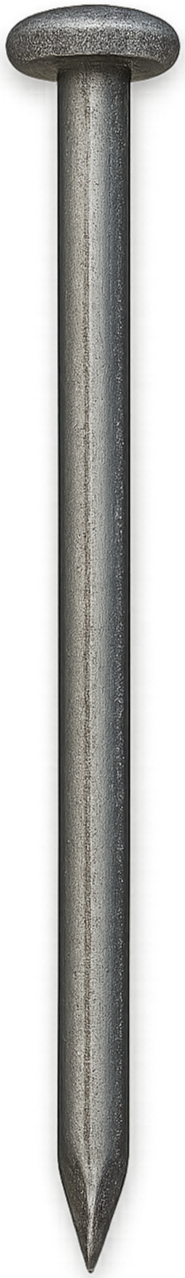
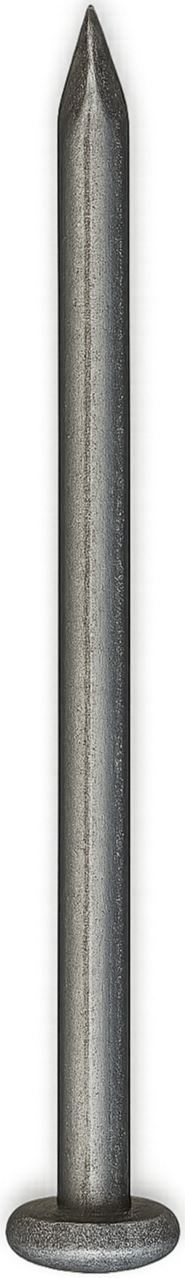
spik22

Changed region(s): [[0.027, 0.0, 0.973, 1.0], [0.2973, 0.6408, 0.3243, 0.8239], [0.2973, 0.1831, 0.3243, 0.3662]]

diff --git a/spiken/index.html b/spiken/index.html
@@ -17,7 +17,7 @@
     canvas{position:absolute;inset:0}
 
     /* spik-bild */
-    .needle{position:absolute;left:50%;top:50%;height:calc(var(--size)*1.0);width:auto;transform-origin:50% 50%; transform:translate(-50%,-50%) rotate(0deg);touch-action:none;pointer-events:none}
+    .needle{position:absolute;left:50%;top:50%;height:calc(var(--size)*1.0);width:auto;transform-origin:50% 50%; transform:translate(-50%,-50%) rotate(180deg);touch-action:none;pointer-events:none}
 
     .spin-label{position:absolute;left:50%;top:50%;transform:translate(-50%,-50%);font-size:2rem;opacity:0.5;pointer-events:none}
 
@@ -183,7 +183,7 @@
     });
 
     let spinning = false;
-    let currentRotation = 0;
+    let currentRotation = 180;
 
     function animateSpin(){
       if(spinning) return;
@@ -196,13 +196,13 @@
         const anglePer = 360/playerCount;
         targetIndex = Math.floor(Math.random()*playerCount);
         const offset = (Math.random()*0.8 - 0.4) * anglePer * 0.9;
-        targetAngle = (targetIndex+0.5)*anglePer + offset; // spiken pekar uppåt (0°), så +0 är uppåt
+        targetAngle = (targetIndex+0.5)*anglePer + offset;
       } else {
         targetAngle = Math.random()*360;
       }
 
-      const accelTime = 400;
-      const steadyTime = 2500;
+      const accelTime = 800;
+      const steadyTime = 2000;
       const decelTime = 2000;
       const total = accelTime + steadyTime + decelTime;
 
@@ -212,18 +212,18 @@
 
       const start = performance.now();
       function easeOutCubic(t){ return 1 - Math.pow(1-t,3); }
-      function easeInQuad(t){ return t*t; }
+      function easeInOutQuad(t){ return t<0.5 ? 2*t*t : -1+(4-2*t)*t; }
 
       function frame(now){
         const elapsed = now - start;
         let rotDelta;
         if(elapsed <= accelTime){
           const p = elapsed/accelTime;
-          const frac = easeInQuad(p) * 0.2;
+          const frac = easeInOutQuad(p) * 0.25;
           rotDelta = finalDelta * frac;
         } else if(elapsed <= accelTime + steadyTime){
           const p = (elapsed - accelTime)/steadyTime;
-          const frac = 0.2 + p*0.55;
+          const frac = 0.25 + p*0.5;
           rotDelta = finalDelta * Math.min(frac,0.75);
         } else {
           const p = (elapsed - accelTime - steadyTime)/decelTime;
